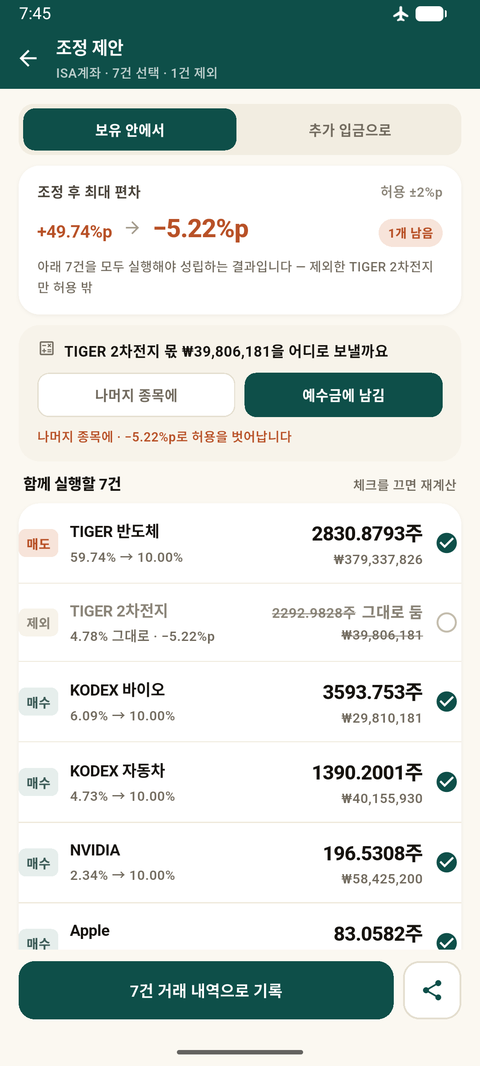
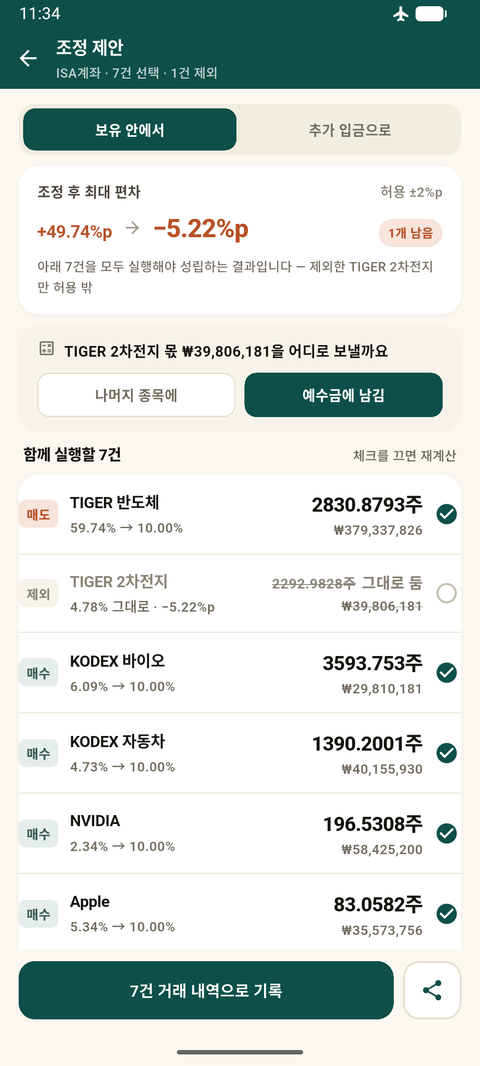
docs: v20a/b/c 완료 기록 + 검토용 캡처
시안 v20 세 화면을 다 만들고 에뮬레이터에서 확인했다.
캡처는 docs/review/에 있다 — 폰에서 넘겨보시면 된다.

diff --git a/docs/WORK_STATE.md b/docs/WORK_STATE.md
@@ -51,11 +51,16 @@
 
 ### 2. 남은 시안 화면 (막히지 않은 것)
 
-- **v20a/b/c 조정 제안 개정** (HTML 5600/5726/5859) — **한 포트 안에서** 이탈한
-  여러 종목을 한 장에. 시안 원문: "포트끼리는 여전히 섞지 않습니다 — 예수금이
-  계좌 단위로 갈려 있어서 합쳐 풀 수가 없습니다." (예전 메모의 "여러 포트를 한
-  번에"는 오독이었다.) v18d를 대체한다 — 가장 큰 글자가 개별 수량에서
-  **조정 후 최대 편차**로 옮겨간다.
+- ~~**v20a/b/c 조정 제안 개정**~~ — ✅ 완료 (2026-08-29)
+  - v20a: 결론을 맨 위로(`조정 후 최대 편차`), 거래 줄 한 줄로, 예수금 가계부,
+    CTA 건수 + 공유 (`9afafb1`)
+  - v20b: 뺀 몫을 `나머지 종목에` / `예수금에 남김` 중 고른다. `재계산` 배지 +
+    직전 값 취소선 (`a612907`)
+  - v20c: 거래를 한 장에서 한꺼번에 기록. 다이얼로그를 대체했다 (`8137190`)
+  - 캡처: `docs/review/v20*.png`
+  - **찾은 버그 2건** — `예수금에 남김`이 낼 수 없는 계획을 낼 수 있다,
+    두 화면이 예수금을 다르게 말했다. 앞의 것은 `DECISIONS.md`에 남겼다.
+
 - **v17b/c 업로드** (4352/4424) — 엑셀 가져오기 UI가 아직 옛 구조
 - **v12e / v17d 첫 진입** (2975/4527) — 포트가 없을 때의 화면
 
